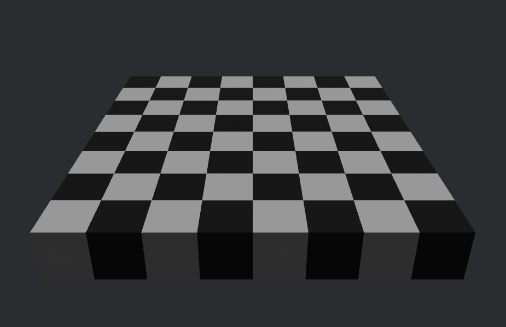
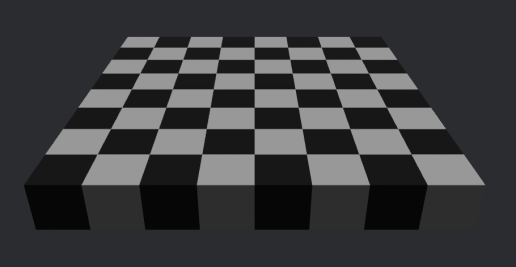
exmples(chessboards): Rename checkerboards examples to chessboard and update images

diff --git a/examples/chessboard.rs b/examples/chessboard.rs
@@ -12,14 +12,17 @@ use {ghx_proc_gen::generator::builder::GeneratorBuilder, ghx_proc_gen::grid::Gri
 fn main() {
     // A SocketCollection is what we use to create sockets and define their connections
     let mut sockets = SocketCollection::new();
+    // For this example, we will only need two sockets
     let (white, black) = (sockets.create(), sockets.create());
 
     // With the following, a white socket can connect to a black socket and vice-versa
     sockets.add_connection(white, vec![black]);
 
-    // We define 2 very simple models, a white tile model with the `white` socket on each side and a black tile model with the `black` socket on each side
     let mut models = ModelCollection::<Cartesian2D>::new();
+    // We define 2 very simple models: a white tile model with the `white` socket on each side
+    // and a black tile model with the `black` socket on each side
     models.create(SocketsCartesian2D::Mono(white));
+    // We keep the black model for later
     let black_model = models.create(SocketsCartesian2D::Mono(black)).clone();
 
     // We give the models and socket collection to a RulesBuilder and get our Rules
@@ -41,13 +44,13 @@ fn main() {
 
     // Here we directly generate the whole grid, and ask for the result to be returned.
     // The generation could also be done iteratively via `generator.select_and_propagate()`, or the results could be obtained through an `Observer`
-    let (_gen_info, checker_pattern) = generator.generate_grid().unwrap();
+    let (_gen_info, chess_pattern) = generator.generate_grid().unwrap();
 
     let icons = vec!["◻ ", "⬛"];
     // We draw from top to bottom
-    for y in (0..checker_pattern.grid().size_y()).rev() {
-        for x in 0..checker_pattern.grid().size_x() {
-            print!("{}", icons[checker_pattern.get_2d(x, y).model_index]);
+    for y in (0..chess_pattern.grid().size_y()).rev() {
+        for x in 0..chess_pattern.grid().size_x() {
+            print!("{}", icons[chess_pattern.get_2d(x, y).model_index]);
         }
         println!();
     }

diff --git a/bevy_examples/chessboard/chessboard.rs b/bevy_examples/chessboard/chessboard.rs
@@ -46,14 +46,16 @@ fn setup_generator(
 ) {
     // A SocketCollection is what we use to create sockets and define their connections
     let mut sockets = SocketCollection::new();
+    // For this example, we will only need two sockets
     let (white, black) = (sockets.create(), sockets.create());
 
     // With the following, a white socket can connect to a black socket and vice-versa
     sockets.add_connection(white, vec![black]);
 
-    // We define 2 very simple models, a white tile model with the `white` socket on each side and a black tile model with the `black` socket on each side
     let mut models = ModelCollection::<Cartesian2D>::new();
+    // We define 2 very simple models, a white tile model with the `white` socket on each side and a black tile model with the `black` socket on each side
     models.create(SocketsCartesian2D::Mono(white));
+    // We keep the black model for later
     let black_model = models.create(SocketsCartesian2D::Mono(black)).clone();
 
     // We give the models and socket collection to a RulesBuilder and get our Rules

diff --git a/README.md b/README.md
@@ -41,7 +41,7 @@ The building pieces of a generation are called `Models`, and adjacency constrain
 
 Connections are then defined between the sockets, which allows models with connected sockets on opposite sides to be neighbours.
 
-Let's build a checker board pattern:
+Let's build a chessboard pattern:
 
 1) Start by creating the `Rules` for the algorithm:
 ```rust
@@ -53,12 +53,12 @@ Let's build a checker board pattern:
   // With the following, a `white` socket can connect to a `black` socket and vice-versa
   sockets.add_connection(white, vec![black]);
 
+  let mut models = ModelCollection::<Cartesian2D>::new();
   // We define 2 very simple models: a white tile model with the `white` socket on each side
   // and a black tile model with the `black` socket on each side
-  let models = vec![
-      SocketsCartesian2D::Mono(white).new_model(),
-      SocketsCartesian2D::Mono(black).new_model(),
-  ];
+  models.create(SocketsCartesian2D::Mono(white));
+  // We keep the black model for later
+  let black_model = models.create(SocketsCartesian2D::Mono(black)).clone();
 
   // We give the models and socket collection to a RulesBuilder and get our Rules
   let rules = RulesBuilder::new_cartesian_2d(models, sockets).build().unwrap();
@@ -66,7 +66,7 @@ Let's build a checker board pattern:
 
 2) Create a `GridDefinition`:
 ```rust
-  // Like a chess board, let's do an 8x8 2d grid
+  // Like a chessboard, let's do an 8x8 2d grid
   let grid = GridDefinition::new_cartesian_2d(8, 8, false, false);
 ```
 
@@ -76,22 +76,25 @@ Let's build a checker board pattern:
   let mut generator = GeneratorBuilder::new()
       .with_rules(rules)
       .with_grid(grid)
-      .build();
+      // Let's ensure that we make a chessboard, with a black square bottom-left
+      .with_initial_nodes(vec![(GridPosition::new_xy(0, 0), black_model)])
+      .build()
+      .unwrap();
 ```
 
 4) Get a result:
 ```rust
   // Here we directly generate the whole grid, and ask for the result to be returned.
   // The generation could also be done iteratively via `generator.select_and_propagate()`, or the results could be obtained through an `Observer`
-  let checker_pattern = generator.generate_collected().unwrap();
+  let chess_pattern = generator.generate_collected().unwrap();
 ```
 
 If we simply print the result in the terminal we should obtain:
 ```rust
   let icons = vec!["◻ ", "⬛"];
-  for y in 0..checker_pattern.grid().size_y() {
-      for x in 0..checker_pattern.grid().size_x() {
-        print!("{}", icons[checker_pattern.get_2d(x, y).model_index]);
+  for y in 0..chess_pattern.grid().size_y() {
+      for x in 0..chess_pattern.grid().size_x() {
+        print!("{}", icons[chess_pattern.get_2d(x, y).model_index]);
       }
       println!();
   }
@@ -196,14 +199,14 @@ cargo add bevy_ghx_proc_gen
 # Examples
 <div align="center">
 
-|                     | Grid coordinate system | Assets            | Engine | Camera |
-| ------------------- | ---------------------- | ----------------- | ------ | ------ |
-| `Checkerboard`      | Cartesian2D            | Unicode           | None   | N/A    |
-| `Unicode terrain`   | Cartesian2D            | Unicode           | None   | N/A    |
-| `Bevy-checkerboard` | Cartesian2D            | Procedural meshes | Bevy   | 3D     |
-| `Pillars`           | Cartesian3D            | .glb              | Bevy   | 3D     |
-| `Tile-layers`       | Cartesian3D            | .png              | Bevy   | 2D     |
-| `Canyon`            | Cartesian3D            | .glb              | Bevy   | 3D     |
+|                   | Grid coordinate system | Assets            | Engine | Camera |
+| ----------------- | ---------------------- | ----------------- | ------ | ------ |
+| `Chessboard`      | Cartesian2D            | Unicode           | None   | N/A    |
+| `Unicode terrain` | Cartesian2D            | Unicode           | None   | N/A    |
+| `Bevy-chessboard` | Cartesian2D            | Procedural meshes | Bevy   | 3D     |
+| `Pillars`         | Cartesian3D            | .glb              | Bevy   | 3D     |
+| `Tile-layers`     | Cartesian3D            | .png              | Bevy   | 2D     |
+| `Canyon`          | Cartesian3D            | .glb              | Bevy   | 3D     |
 
 *Examples videos for `unicode-terrain`, `pillars`, `tile-layers` & `canyon` are slowed down (with the `ProcGenDebugPlugin` for Bevy) in order to see the generation happen*
 
@@ -213,12 +216,12 @@ cargo add bevy_ghx_proc_gen
 
 
 <details>
-  <summary>[Command-line] Checkerboard example</summary>
+  <summary>[Command-line] Chessboard example</summary>
   
-## Checkerboard example
+## Chessboard example
 
 ```
-cargo run --example checkerboard
+cargo run --example chessboard
 ```
 Simple standalone example, the same as in the [quickstart](#quickstart) section.
 
@@ -240,10 +243,10 @@ https://github.com/Henauxg/ghx_proc_gen/assets/19689618/6a1108af-e078-4b27-bae1-
 </details>
 
 <details>
-  <summary>[Bevy + ProcGenSimplePlugin] Bevy checkerboard example</summary>
+  <summary>[Bevy + ProcGenSimplePlugin] Bevy chessboard example</summary>
 
 ```
-cargo run --example bevy-checkerboard
+cargo run --example bevy-chessboard
 ```
 
 Simplest Bevy example, the same as in the [bevy quickstart](bevy_ghx_proc_gen/README.md#bevy-quickstart) section.
